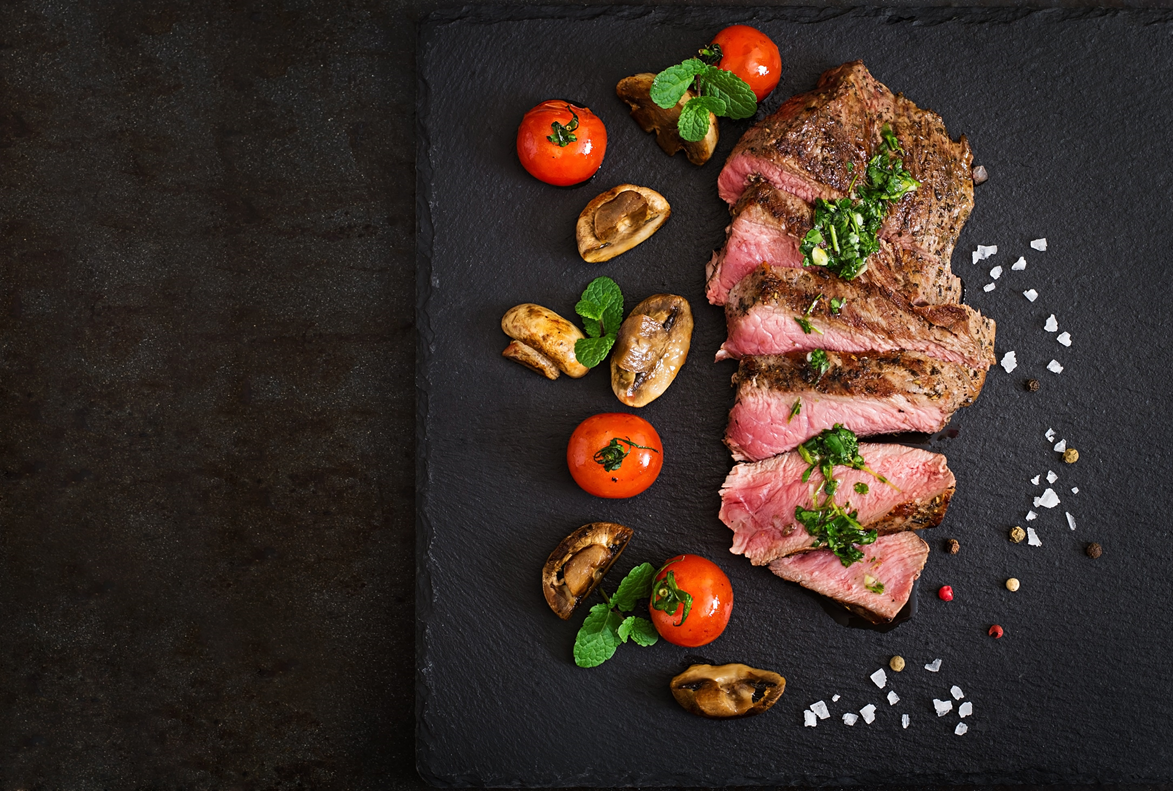
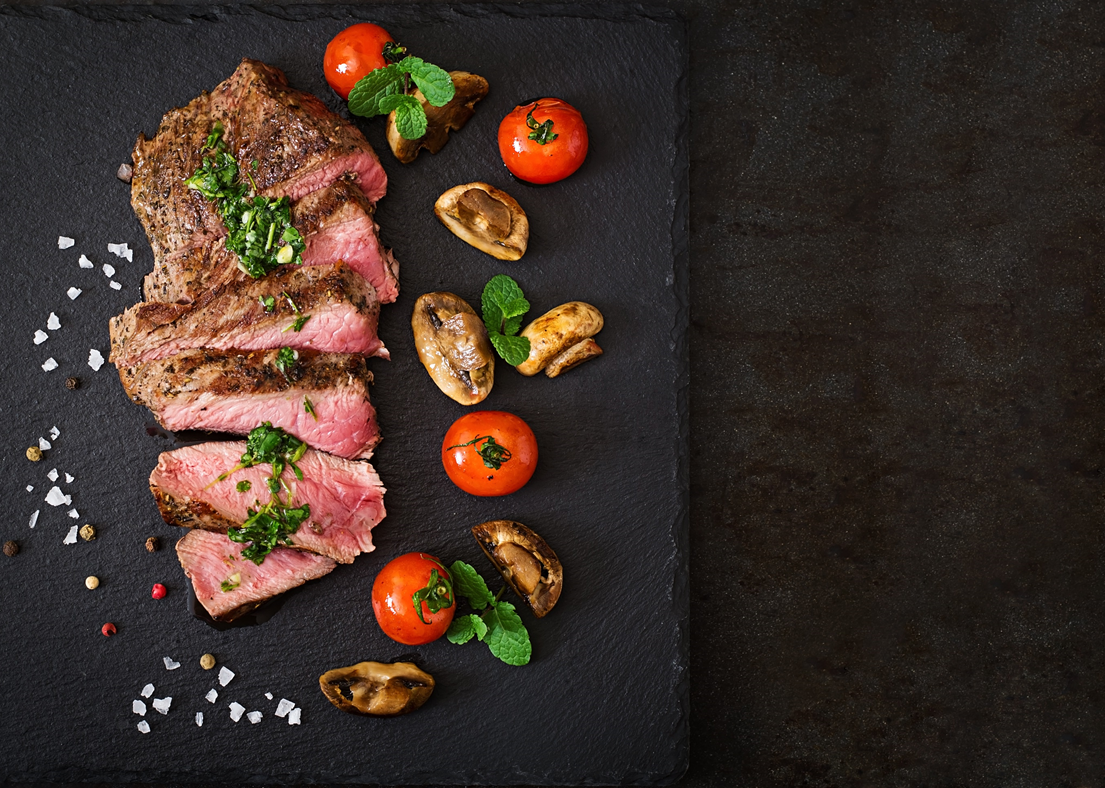
atualizando fontes e direcionamento

diff --git a/styles/style.css b/styles/style.css
@@ -1,9 +1,9 @@
 body{
-    background-image: url(../images/churras2.png);
+    background-image: url(../images/churras.png);
     background-size:cover;
     background-repeat: no-repeat;
     display: flex;
-    align-items: flex-start;
+    justify-content: end;
     padding-top: 30px;
     margin: 40px;
 
@@ -12,8 +12,8 @@ body{
 
 .container{
     font-family: Arial, Helvetica, sans-serif;
-    height: 550px;
-    width: 400px;
+    height: 560px;
+    width: 425px;
     background-color: #cfefac;
     padding: 50px;
     border-radius: 10px;
@@ -30,12 +30,23 @@ input{
     text-align: center;
     font-size: 18px;
 }
-.container h1, h2{
-    text-align: center;
-    color: #3e6b0a;
+h1{
+    font-family: 'Rubik Moonrocks', cursive, Arial, Helvetica, sans-serif;
+    font-size: 50px;
+    text-align:center;
+    color: #000;
     margin-top: 0;
     margin-bottom: 30px;
 }
+.container h2{
+    font-family:'Bebas Neue', cursive, Arial, Helvetica, sans-serif;
+    font-size: 30px;
+    text-align: center;
+    color: #000;
+    margin-top: 0;
+    margin-bottom: 30px;
+}
+
 #botao{
     background-color: #82e016;
     padding: 15px;
@@ -52,5 +63,5 @@ input{
     text-align: center;
     font-weight: bold;
     color: #3e6b0a;
-    font-size: 20px;
+    font-size: 18px;
 }

diff --git a/index.html b/index.html
@@ -5,6 +5,8 @@
     <meta charset="UTF-8">
     <meta name="viewport" content="width=device-width, initial-scale=1.0">
     <meta http-equiv="X-UA-Compatible" content="ie=edge">
+    <link href="https://fonts.googleapis.com/css2?family=Rubik+Moonrocks&display=swap" rel="stylesheet">
+    <link href="https://fonts.googleapis.com/css2?family=Bebas+Neue&display=swap" rel="stylesheet">
     <link rel="stylesheet" type="text/css" href="./styles/style.css" />
     <title>Churrascometro</title>
 
